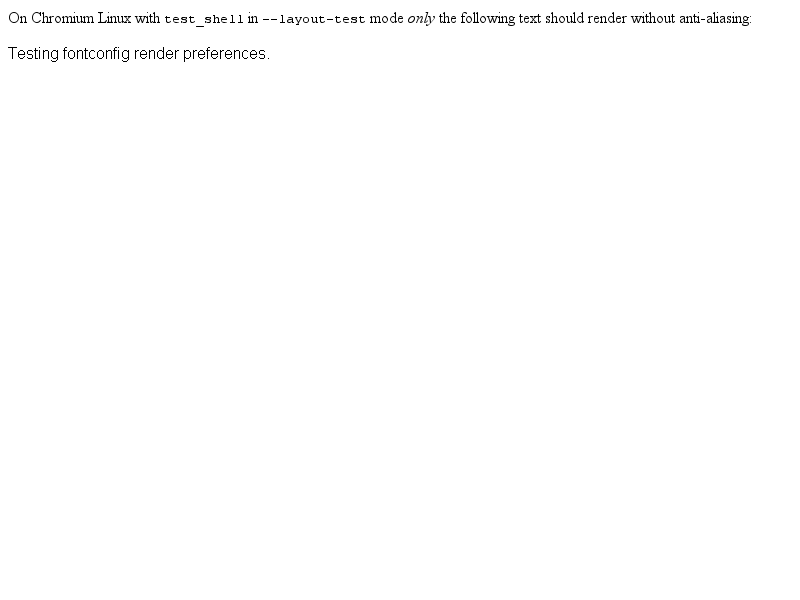
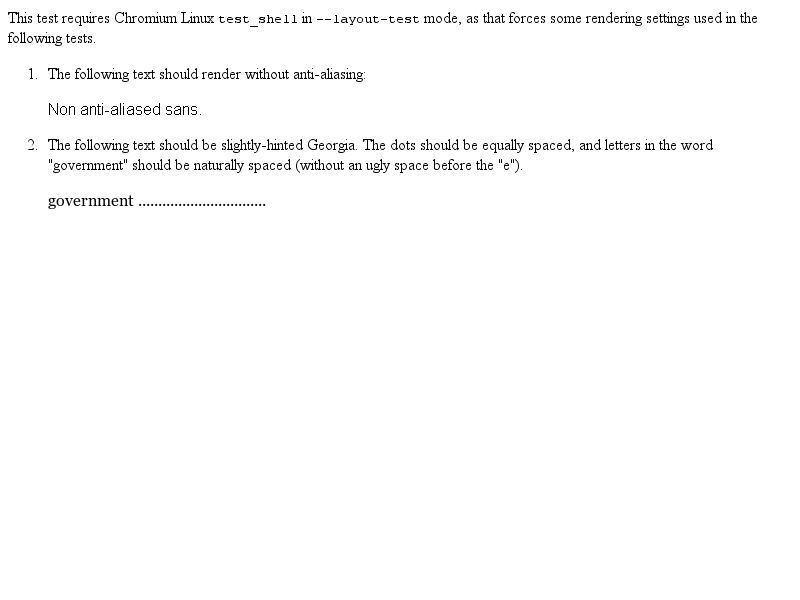
2010-03-23  Evan Martin  <evan@chromium.org>
Reviewed by Dmitry Titov.

        [chromium] use integral glyph widths
        https://bugs.webkit.org/show_bug.cgi?id=36510

        Extend a Linux Chromium layout test to also cover slight-hinted text.

        * platform/chromium/fast/text/chromium-linux-fontconfig-renderstyle.html:
2010-03-23  Evan Martin  <evan@chromium.org>

        Reviewed by Dmitry Titov.

        [chromium] use integral glyph widths
        https://bugs.webkit.org/show_bug.cgi?id=36510

        Despite WebKit (and Skia, to an extent) supporting non-integral
        glyph widths, the font code path we hit in Skia only supports
        integral glyph positions.  This means that we would accumulate
        offsets when drawing a sequence up non-integer-width glyphs
        which would cause gaps when snapped to the pixel grid when drawing.

        * platform/graphics/chromium/SimpleFontDataLinux.cpp:
        (WebCore::SimpleFontData::platformWidthForGlyph):
        round glyph widths to integers.

git-svn-id: http://svn.webkit.org/repository/webkit/trunk/LayoutTests@56460 268f45cc-cd09-0410-ab3c-d52691b4dbfc

diff --git a/platform/chromium/fast/text/chromium-linux-fontconfig-renderstyle.html b/platform/chromium/fast/text/chromium-linux-fontconfig-renderstyle.html
@@ -1,14 +1,23 @@
 <html>
-  <head>
-    <style>
-      p.aliased {
-        font-family: "NonAntiAliasedSans";
-      }
-    </style>
-  </head>
   <body>
-    <p>On Chromium Linux with <tt>test_shell</tt> in <tt>--layout-test</tt> mode <i>only</i> the following text should render without anti-aliasing:</p>
+    <p>This test requires Chromium Linux <tt>test_shell</tt> in
+      <tt>--layout-test</tt> mode, as that forces some rendering settings used
+      in the following tests.</p>
 
-    <p class="aliased">Testing fontconfig render preferences.</p>
+    <ol>
+      <li>
+        <p>The following text should render without anti-aliasing:</p>
+        <p style="font-family: NonAntiAliasedSans">Non anti-aliased sans.</p>
+      </li>
+      <li>
+        <p>The following text should be slightly-hinted Georgia.  The dots
+          should be equally spaced, and letters in the word "government"
+          should be naturally spaced (without an ugly space before the "e").</p>
+
+        <p style="font-family:SlightHintedGeorgia">
+          government ................................
+        </p>
+      </li>
+    </ol>
   </body>
 </html>
